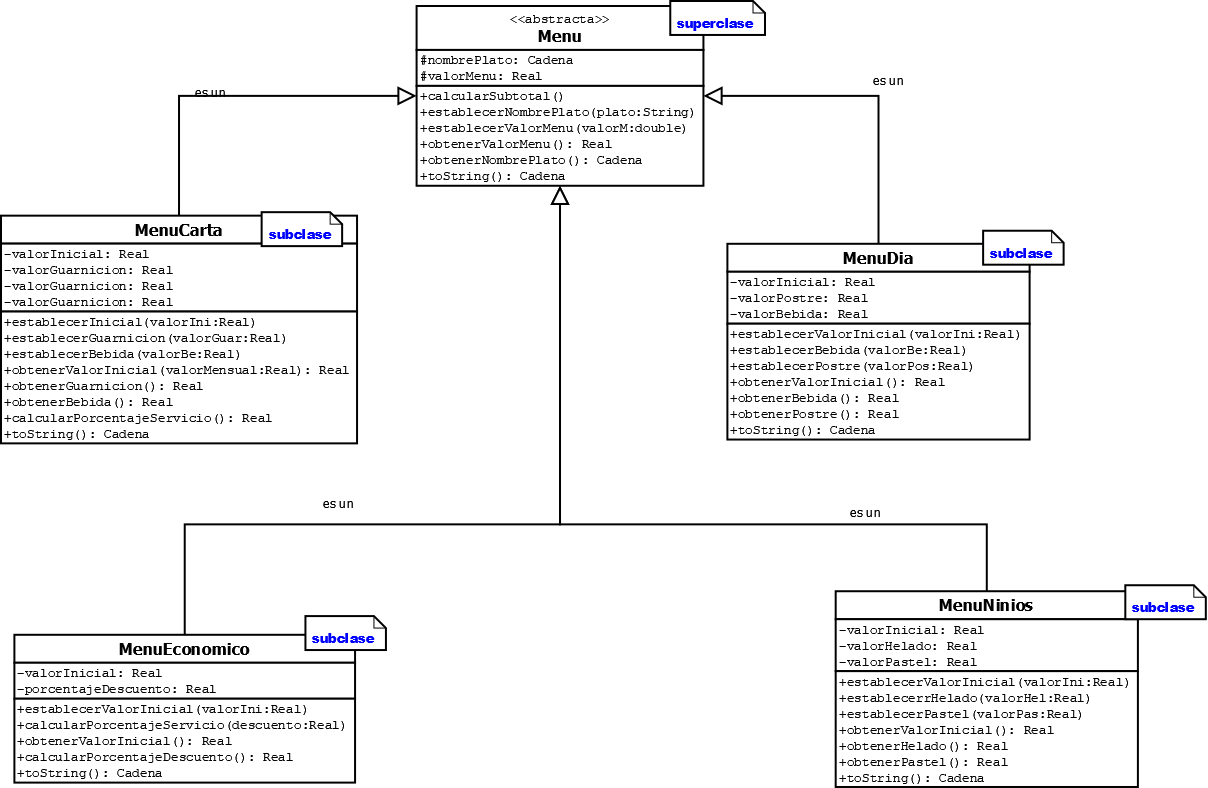
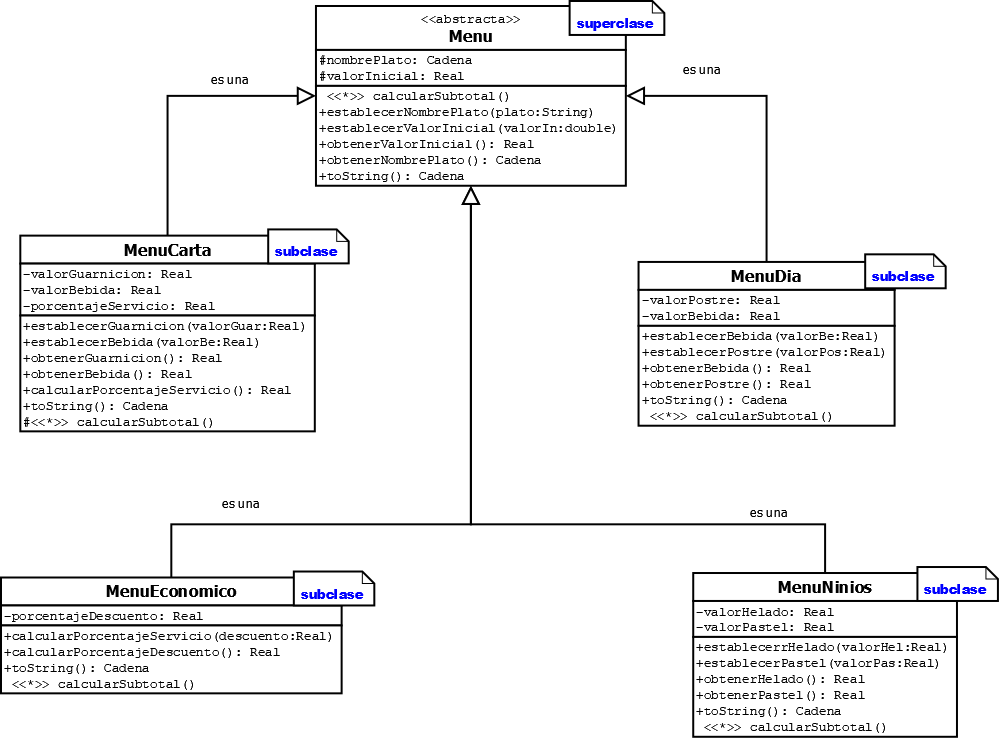
Commit final

diff --git a/Taller11/src/paquete01/Ejecutor01.java b/Taller11/src/paquete01/Ejecutor01.java
@@ -5,7 +5,7 @@
  */
 package paquete01;
 
-import java.util.Scanner;
+import java.util.ArrayList;
 
 /**
  *
@@ -19,21 +19,28 @@ public class Ejecutor01 {
     public static void main(String[] args) {
         // TODO code application logic here
 
-       MenuNinios menuNinos1 = new MenuNinios("Niños 01", 4.50, 2.0, 1.0, 1.50);
-        MenuNinios menuNinos2 = new MenuNinios("Niños 02", 5.5, 3.0, 1.0, 1.50);
-        MenuEconomico menuEconomico = new MenuEconomico("Econo 001", 3.0, 4.0, 25);
-        MenuDia menuDia = new MenuDia("Dia 001", 7.0, 5.0, 1.0, 1.0);
-        MenuCarta menuCarta = new MenuCarta("Carta 001", 10.10, 6.0, 1.0, 2.0, 10);
+        ArrayList<Menu> listaMenus = new ArrayList<>();
+
+        MenuNinios menuNinos1 = new MenuNinios("Niños 01", 2.0, 1.0, 1.50);
+        menuNinos1.calcularSubtotal();
+        listaMenus.add(menuNinos1);
+        MenuNinios menuNinos2 = new MenuNinios("Niños 02", 3.0, 1.0, 1.50);
+        menuNinos2.calcularSubtotal();
+        listaMenus.add(menuNinos2);
+        MenuEconomico menuEconomico = new MenuEconomico("Econo 001", 4.0, 25);
+        menuEconomico.calcularSubtotal();
+        listaMenus.add(menuEconomico);
+        MenuDia menuDia = new MenuDia("Dia 001", 5.0, 1.0, 1.0);
+         menuDia.calcularSubtotal();
+        listaMenus.add(menuDia);
+        MenuCarta menuCarta = new MenuCarta("Carta 001", 6.0, 1.5, 2.0, 10);
+        menuCarta.calcularSubtotal();
+        listaMenus.add(menuCarta);
+
+        Cuenta cuenta = new Cuenta("Rene Elizalde", listaMenus,10);
         
-        Cuenta cuenta = new Cuenta("Rene Elizalde", 10);
-        cuenta.agregarMenu(menuNinos1);
-        cuenta.agregarMenu(menuNinos2);
-        cuenta.agregarMenu(menuEconomico);
-        cuenta.agregarMenu(menuDia);
-        cuenta.agregarMenu(menuCarta);
 
         System.out.println(cuenta.toString());
     }
-    
 
 }

diff --git a/Taller11/src/paquete01/MenuCarta.java b/Taller11/src/paquete01/MenuCarta.java
@@ -10,22 +10,16 @@ package paquete01;
  */
 public class MenuCarta extends Menu {
 
-    private double valorInicial;
     private double valorGuarnicion;
     private double valorBebida;
     private double porcentajeServicio;
 
-    public MenuCarta(String plato, double valorM, double valorIni, double valorGuar,
+    public MenuCarta(String plato, double valorIni, double valorGuar,
             double valorBe, double servicio) {
-        super(plato, valorM);
-        valorInicial = valorIni;
+        super(plato, valorIni);
         valorGuarnicion = valorGuar;
         valorBebida = valorBe;
         porcentajeServicio = servicio;
-    }
-
-    public void establecerInicial(double n) {
-        valorInicial = n;
     }
 
     public void establecerGuarnicion(double n) {
@@ -36,9 +30,6 @@ public class MenuCarta extends Menu {
         valorBebida = n;
     }
 
-    public double obtenerValorInicial() {
-        return valorInicial;
-    }
     public double obtenerGuarnicion() {
         return valorGuarnicion;
     }
@@ -59,15 +50,15 @@ public class MenuCarta extends Menu {
     public String toString() {
         String cadenaFinal = String.format("%s", super.toString());
         cadenaFinal = String.format("%s"
-                + "\tValor inicial: %.2f\n"
                 + "\tValor guarnición: %.2f\n"
                 + "\tValor bebida: %.2f\n"
-                + "\tPorcentaje Adicional: %.2f\n",
+                + "\tPorcentaje Adicional: %.2f\n"
+                +"\tValor del menu: %.2f\n",
                 cadenaFinal,
-                obtenerValorInicial(),
                 obtenerGuarnicion(),
                 obtenerBebida(),
-                calcularPorcentajeServicio());
+                calcularPorcentajeServicio(),
+                calcularSubtotal());
         return cadenaFinal;
     }
 

diff --git a/Taller11/src/paquete01/MenuNinios.java b/Taller11/src/paquete01/MenuNinios.java
@@ -9,20 +9,15 @@ package paquete01;
  * @author darav
  */
 public class MenuNinios extends Menu {
-    private double valorInicial;
     private double valorHelado;
     private double valorPastel;
 
-    public MenuNinios(String plato, double valorM, double valorIni, double valorHel,
+    public MenuNinios(String plato, double valorIni, double valorHel,
                      double valorPas) {
-        super(plato, valorM);
-        valorInicial = valorIni;
+        super(plato, valorIni);
+
         valorHelado = valorHel;
         valorPastel = valorPas;
-    }
-
-    public void establecerValorInicial(double n) {
-        valorInicial = n;
     }
     public void establecerrHelado(double n) {
         valorHelado = n;
@@ -31,9 +26,6 @@ public class MenuNinios extends Menu {
         valorPastel = n;
     }
     
-    public double obtenerValorInicial() {
-        return valorInicial;
-    }
     public double obtenerHelado() {
         return valorHelado;
     }
@@ -50,13 +42,13 @@ public class MenuNinios extends Menu {
     public String toString() {
         String cadenaFinal = String.format("%s", super.toString());
         cadenaFinal = String.format("%s"
-                + "\tValor inicial: %.2f\n"
                 + "\tValor helado: %.2f\n"
-                + "\tValor pastel: %.2f\n",
+                + "\tValor pastel: %.2f\n"
+                 +"\tValor del menu: %.2f\n",
                 cadenaFinal,
-                obtenerValorInicial(),
                 obtenerHelado(),
-                obtenerPastel());
+                obtenerPastel(),
+                calcularSubtotal());
         return cadenaFinal;
     }
 }

diff --git a/Taller11/src/paquete01/MenuDia.java b/Taller11/src/paquete01/MenuDia.java
@@ -10,32 +10,22 @@ package paquete01;
  */
 public class MenuDia extends Menu {
 
-    private double valorInicial;
     private double valorPostre;
     private double valorBebida;
 
-    public MenuDia(String plato, double valorM, double valorIni, double valorPos,
+    public MenuDia(String plato, double valorIni, double valorPos,
             double valorBe) {
-        super(plato, valorM);
-        valorInicial = valorIni;
+        super(plato, valorIni);
         valorPostre = valorPos;
         valorBebida = valorBe;
     }
-
-    public void establecerValorInicial(double n) {
-        valorInicial = n;
-    }
-
+    
     public void establecerBebida(double n) {
         valorBebida = n;
     }
 
     public void establecerPostre(double n) {
         valorPostre = n;
-    }
-
-    public double obtenerValorInicial() {
-        return valorInicial;
     }
 
     public double obtenerBebida() {
@@ -55,13 +45,13 @@ public class MenuDia extends Menu {
     public String toString() {
         String cadenaFinal = String.format("%s", super.toString());
         cadenaFinal = String.format("%s"
-                + "\tValor inicial: %.2f\n"
                 + "\tValor bebida: %.2f\n"
-                + "\tValor postre: %.2f\n",
+                + "\tValor postre: %.2f\n"
+                +"\tValor del menu: %.2f\n",
                 cadenaFinal,
-                obtenerValorInicial(),
                 obtenerBebida(),
-                obtenerPostre());
+                obtenerPostre(),
+                calcularSubtotal());
         return cadenaFinal;
     }
 }

diff --git a/Taller11/src/paquete01/Cuenta.java b/Taller11/src/paquete01/Cuenta.java
@@ -17,10 +17,10 @@ public class Cuenta {
     private ArrayList<Menu> menus;
     private double total;
 
-    public Cuenta(String c, double i) {
+    public Cuenta(String c, ArrayList<Menu> me, double i) {
         cliente = c;
         iva = i;
-        menus = new ArrayList<>();
+        menus = me;
         total = 0;
     }
 
@@ -35,26 +35,24 @@ public class Cuenta {
     public String obtenerCliente() {
         return cliente;
     }
+    public double obtenerIva() {
+        return iva;
+    }
 
-    public void agregarMenu(Menu menu) {
-        menus.add(menu);
-        total += menu.calcularSubtotal();
+    public void establecerLista(ArrayList<Menu> lista) {
+        menus = lista;
     }
 
     public double calcularSubtotal() {
-        double subtotal = 0.0;
+        double subtotal = 0;
         for (Menu menu : menus) {
-            subtotal += menu.calcularSubtotal();
+            subtotal = subtotal + menu.calcularSubtotal();
         }
         return subtotal;
     }
 
-    public double calcularIVA() {
-        return calcularSubtotal() * (iva/100);
-    }
-
     public double calcularValorTotal() {
-        return calcularSubtotal() + calcularIVA();
+        return calcularSubtotal() + calcularSubtotal()*(iva / 100);
     }
 
     @Override
@@ -71,7 +69,7 @@ public class Cuenta {
                 + "IVA: %.2f\n"
                 + "Total a pagar: %.2f\n",
                 calcularSubtotal(),
-                calcularIVA(),
+                obtenerIva(),
                 calcularValorTotal());
         return cadena;
     }

diff --git a/Taller11/src/paquete01/MenuEconomico.java b/Taller11/src/paquete01/MenuEconomico.java
@@ -9,13 +9,12 @@ package paquete01;
  * @author darav
  */
 public class MenuEconomico extends Menu {
-
-    private double valorInicial;
+    
     private double porcentajeDescuento;
 
-    public MenuEconomico(String plato, double valorM, double valorIni, double descuento) {
-        super(plato, valorM);
-        valorInicial = valorIni;
+    public MenuEconomico(String plato, double valorIni, double descuento) {
+        super(plato, valorIni);
+
         porcentajeDescuento = descuento;
     }
 
@@ -25,10 +24,6 @@ public class MenuEconomico extends Menu {
 
     public double calcularPorcentajeDescuento() {
         return porcentajeDescuento = porcentajeDescuento / 100;
-    }
-
-    public double obtenerValorInicial() {
-        return valorInicial;
     }
 
 
@@ -41,11 +36,11 @@ public class MenuEconomico extends Menu {
     public String toString() {
         String cadenaFinal = String.format("%s", super.toString());
         cadenaFinal = String.format("%s"
-                + "\tValor inicial: %.2f\n"
-                + "\tPorcentaje Descuento: %.2f\n",
+                + "\tPorcentaje Descuento: %.2f\n"
+                +"\tValor del menu: %.2f\n",
                 cadenaFinal,
-                obtenerValorInicial(),
-                calcularPorcentajeDescuento());
+                calcularPorcentajeDescuento(),
+                calcularSubtotal());
         return cadenaFinal;
     }
 }

diff --git a/Taller11/src/paquete01/Menu.java b/Taller11/src/paquete01/Menu.java
@@ -11,11 +11,12 @@ package paquete01;
 public abstract class Menu {
 
     protected String nombrePlato;
+    protected double valorInicial;
     protected double valorMenu;
 
-    public Menu(String plato, double valorM) {
+    public Menu(String plato, double valorIn) {
         nombrePlato = plato;
-        valorMenu = valorM;
+        valorInicial = valorIn;
     }
 
     public abstract double calcularSubtotal();
@@ -24,25 +25,26 @@ public abstract class Menu {
         nombrePlato = n;
     }
 
-    public void establecerValorMenu(double n) {
-        valorMenu = n;
+    public void establecerValorInicial(double n) {
+        valorInicial = n;
     }
 
-    public double obtenerValorMenu() {
-        return valorMenu;
+    public double obtenerValorInicial() {
+        return valorInicial;
     }
 
     public String obtenerNombrePlato() {
         return nombrePlato;
     }
+    
 
     @Override
     public String toString() {
 
         String cadena = String.format("Nombre del plato: %s\n"
-                + "\tValor del menú:  %.2f\n",
+                + "\tValor inicial:  %.2f\n",
                 obtenerNombrePlato(),
-                obtenerValorMenu());
+                obtenerValorInicial());
         return cadena;
     }
 }

diff --git a/Taller11/src/paquete01/Ejecutor02.java b/Taller11/src/paquete01/Ejecutor02.java
@@ -34,7 +34,7 @@ public class Ejecutor02 {
         {"Carta 004", "9", "2.5", "2.9", "5"},};
 
         // Lista de Menus
-        ArrayList lista = new ArrayList<>();
+        ArrayList<Menu> lista = new ArrayList<>();
 
         /* Agregar un proceso para generar objetos de tipo Menu Carta, Día, 
         Economico y Niño*. Cada arreglo datos, se corresponde a un tipo de Menú.
@@ -80,13 +80,13 @@ public class Ejecutor02 {
         // Fin de solución
 
         for (int i = 0; i < lista.size(); i++) {
-            lista.get(i).establecerValorMenu();
+            lista.get(i).calcularSubtotal();
         }
 
         // Un objeto de tipo Cuenta
         Cuenta miCuenta = new Cuenta("Luis Andrade", lista, 10);
-        miCuenta.establecerSubtotal();
-        miCuenta.establecerValorCancelar();
+        miCuenta.calcularSubtotal();
+        miCuenta.calcularValorTotal();
         System.out.printf("%s\n", miCuenta);
 
     }
